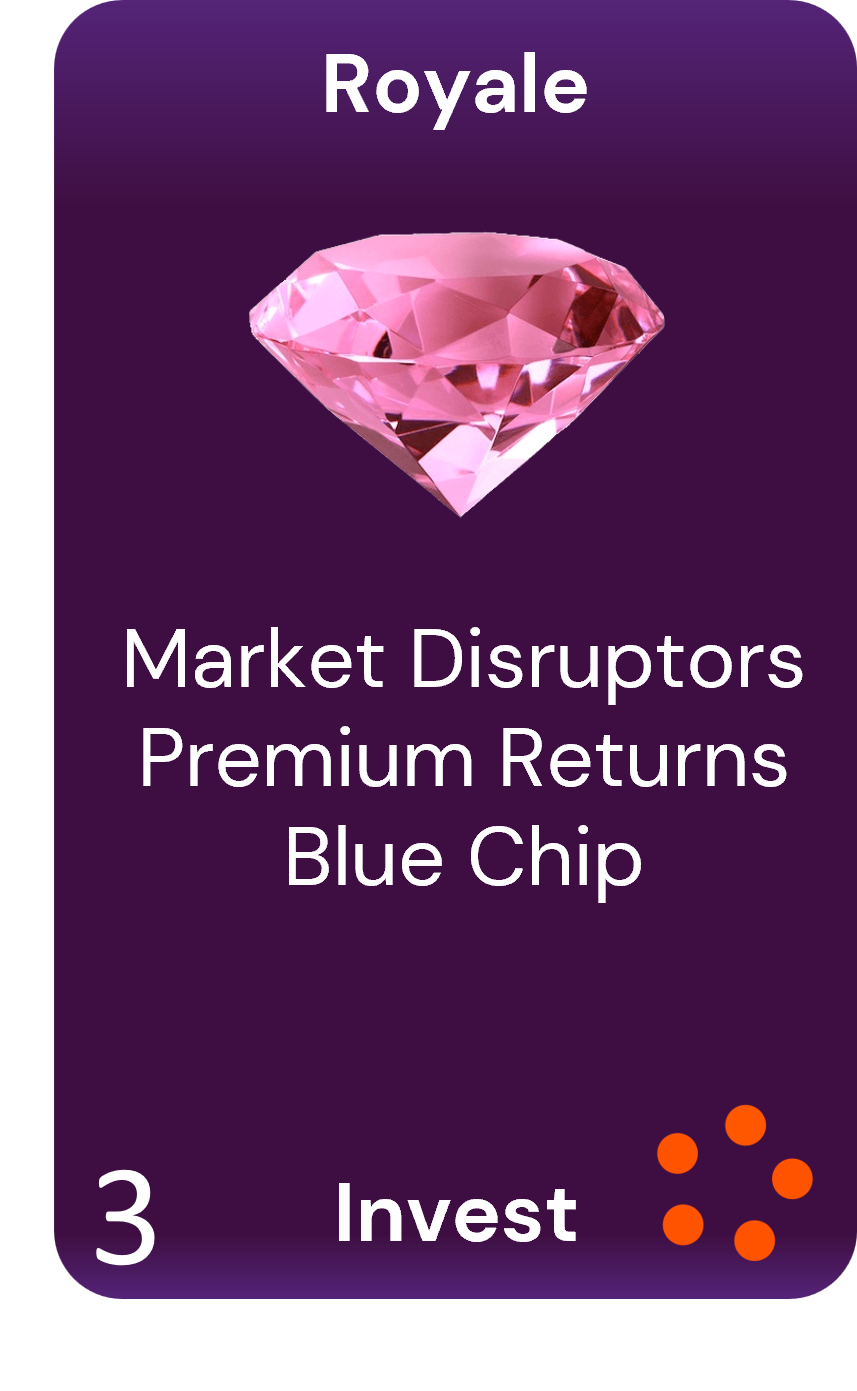
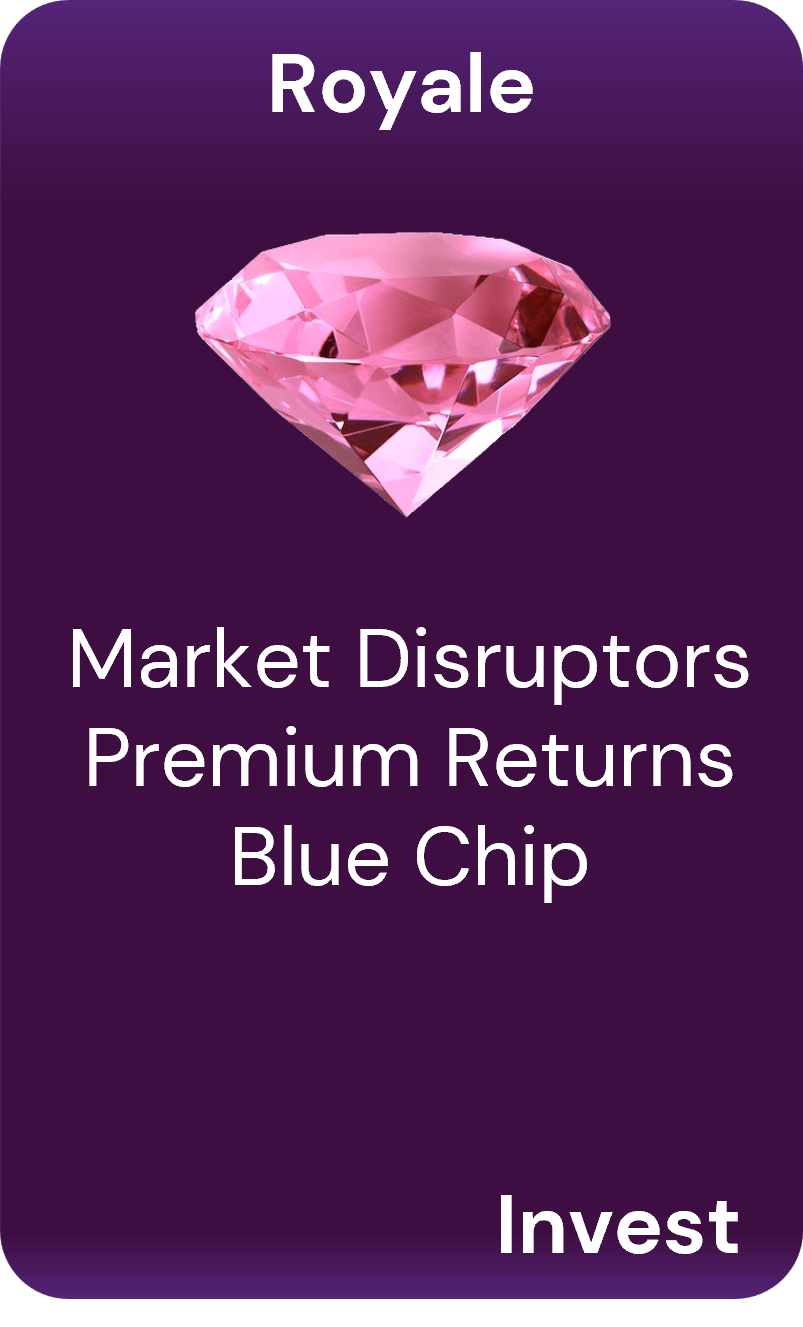
Add files via upload

diff --git a/styles1.css b/styles1.css
@@ -50,7 +50,7 @@ body {
   }
 
   .card{
-    max-width:80%;
+    min-width:80%;
     background-color: transparent;
     justify-content: center;
     justify-items: center;
@@ -85,7 +85,7 @@ body {
   }
 
   .cards {
-    /*flex-direction:row;*/
+    flex-direction:row;
     
   }
 
@@ -421,13 +421,12 @@ font-size:1em;
 .container {
     position:relative;
     display: flex;
-    
+    max-width: 1200px;
     width:100%;
 
     padding:0px;
     justify-content:space-around;
     align-items:center;
-    min-width:fit-content;
     align-self:center;
 }
 
@@ -559,6 +558,7 @@ font-size:1em;
 
   
   justify-content: space-around;
+  object-fit:contain;
   align-items:center;
   width: 100%;
   padding: 10px;
@@ -591,7 +591,7 @@ font-size:1em;
     text-align:center;
     overflow:hidden;
     object-fit:contain;
-    min-width: 150px;
+    min-width: 200px;
 
 }
 
